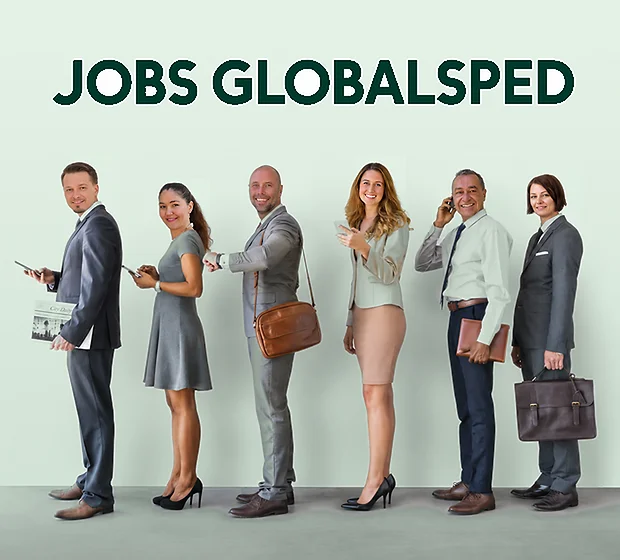
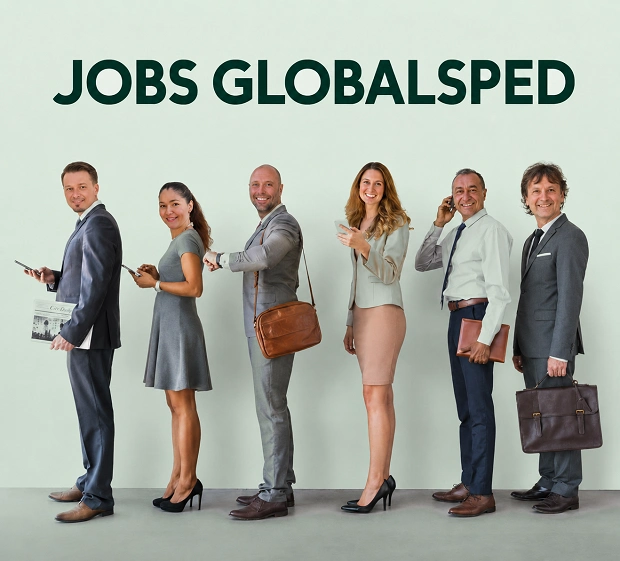
Team Pic with Robert, Transport Mail message added

diff --git a/functions/src/index.ts b/functions/src/index.ts
@@ -128,6 +128,8 @@ function buildInternalMailHtml(leadId: string, lead: any) {
     <p><strong>E-Mail:</strong> ${escapeHtml(lead.contact.email)}</p>
     <p><strong>Telefon:</strong> ${escapeHtml(lead.contact.phone)}</p>
 
+    <p><strong>Nachricht:</strong> ${escapeHtml(lead.contact.message)}</p>
+
     <h3>Transportdaten</h3>
     <pre>${escapeHtml(JSON.stringify(lead.transport, null, 2))}</pre>
 
